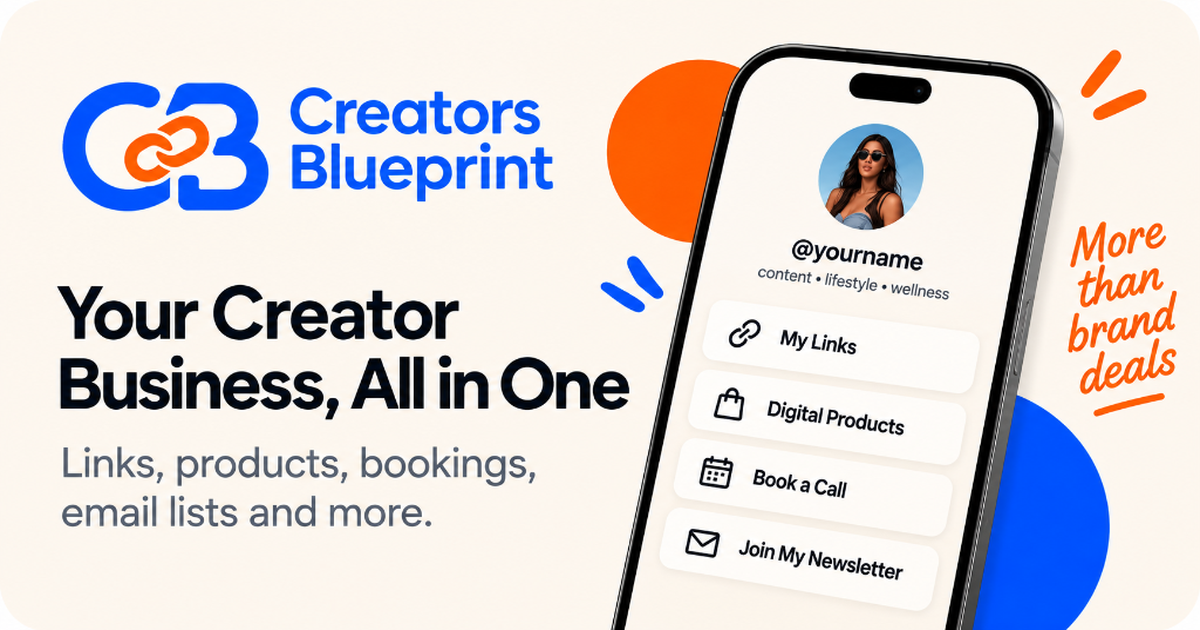
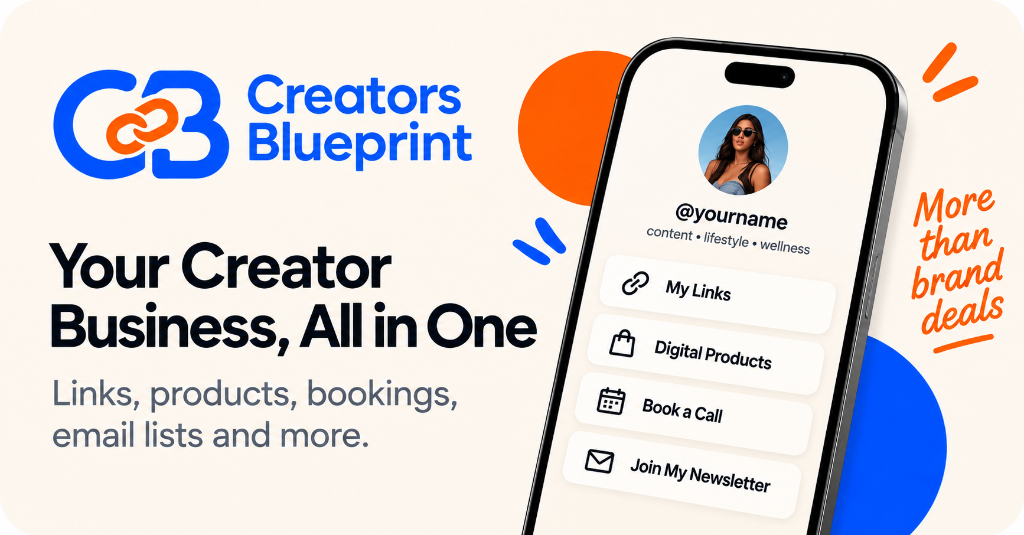
for link sharing

diff --git a/index.html b/index.html
@@ -58,8 +58,8 @@
   <meta property="og:image" content="https://www.creatorsblueprint.io/og-image.png" />
   <meta property="og:image:secure_url" content="https://www.creatorsblueprint.io/og-image.png" />
   <meta property="og:image:type" content="image/png" />
-  <meta property="og:image:width" content="1200" />
-  <meta property="og:image:height" content="630" />
+  <meta property="og:image:width" content="1024" />
+  <meta property="og:image:height" content="535" />
   <meta property="og:image:alt" content="Creators Blueprint - Your Creator Business, All in One" />
 
   <!-- Twitter / X -->
